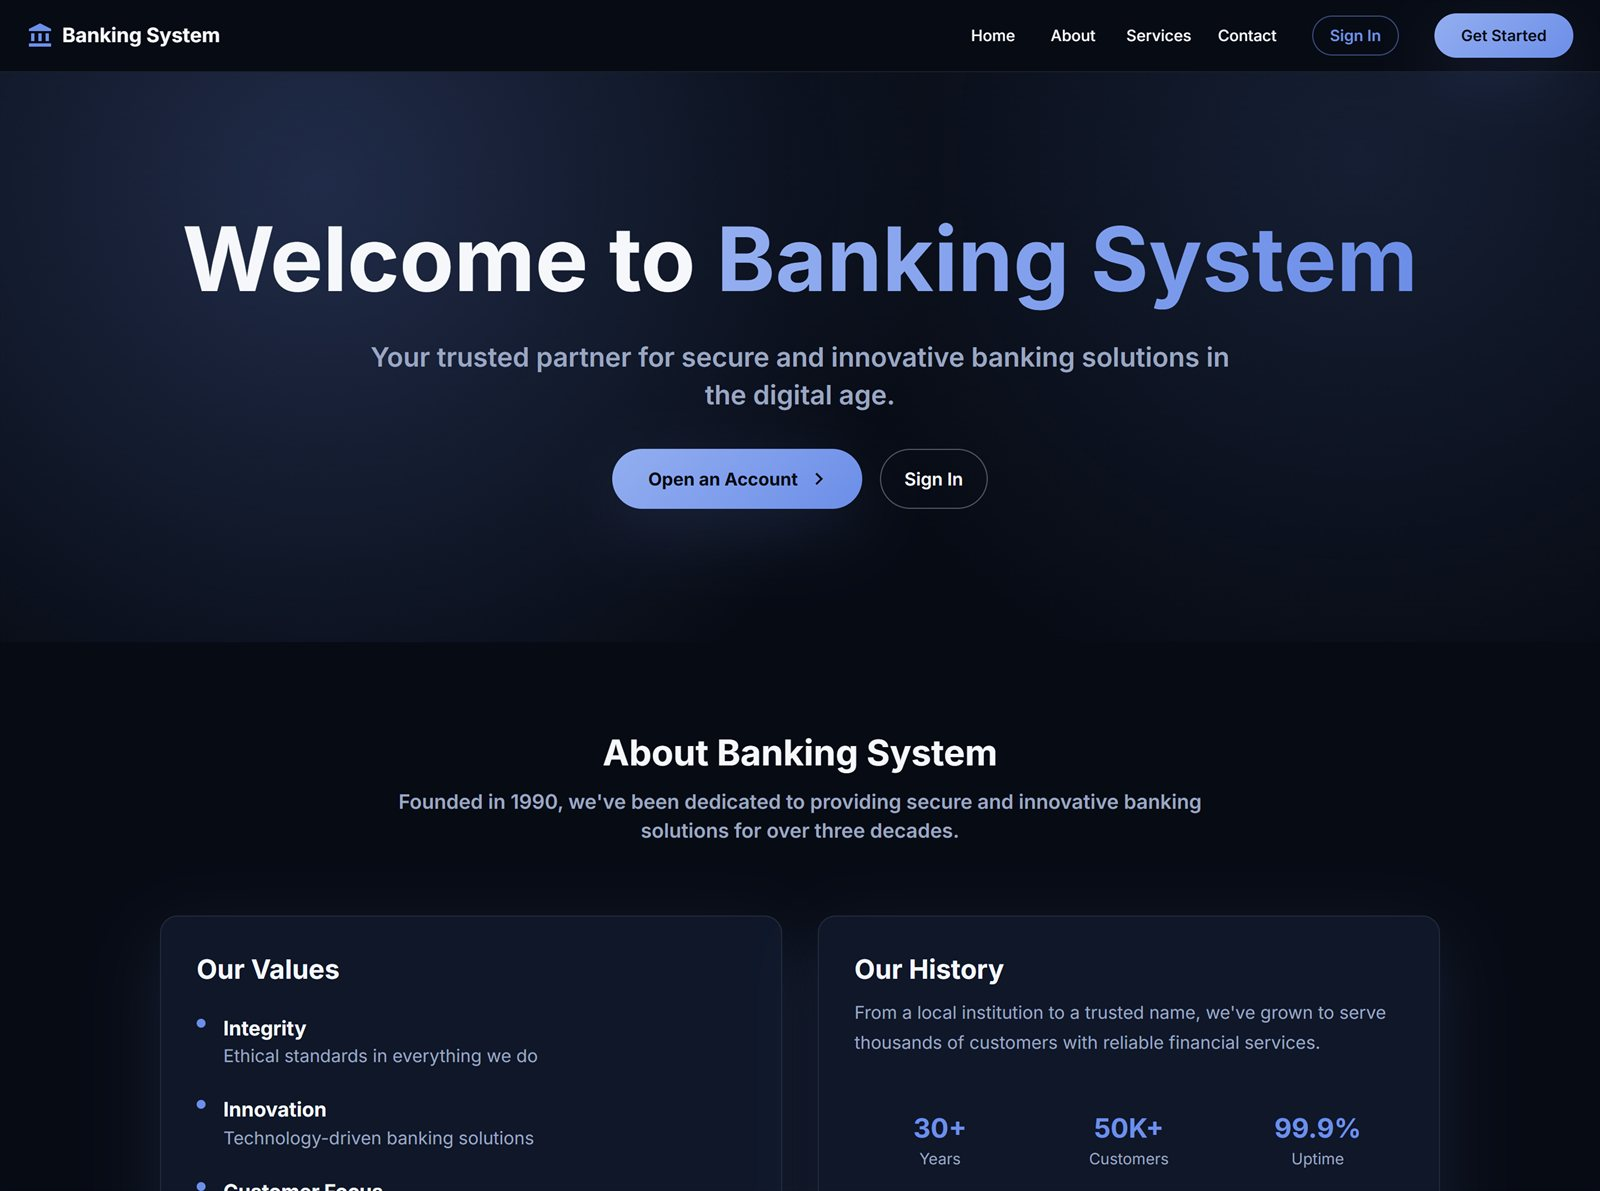
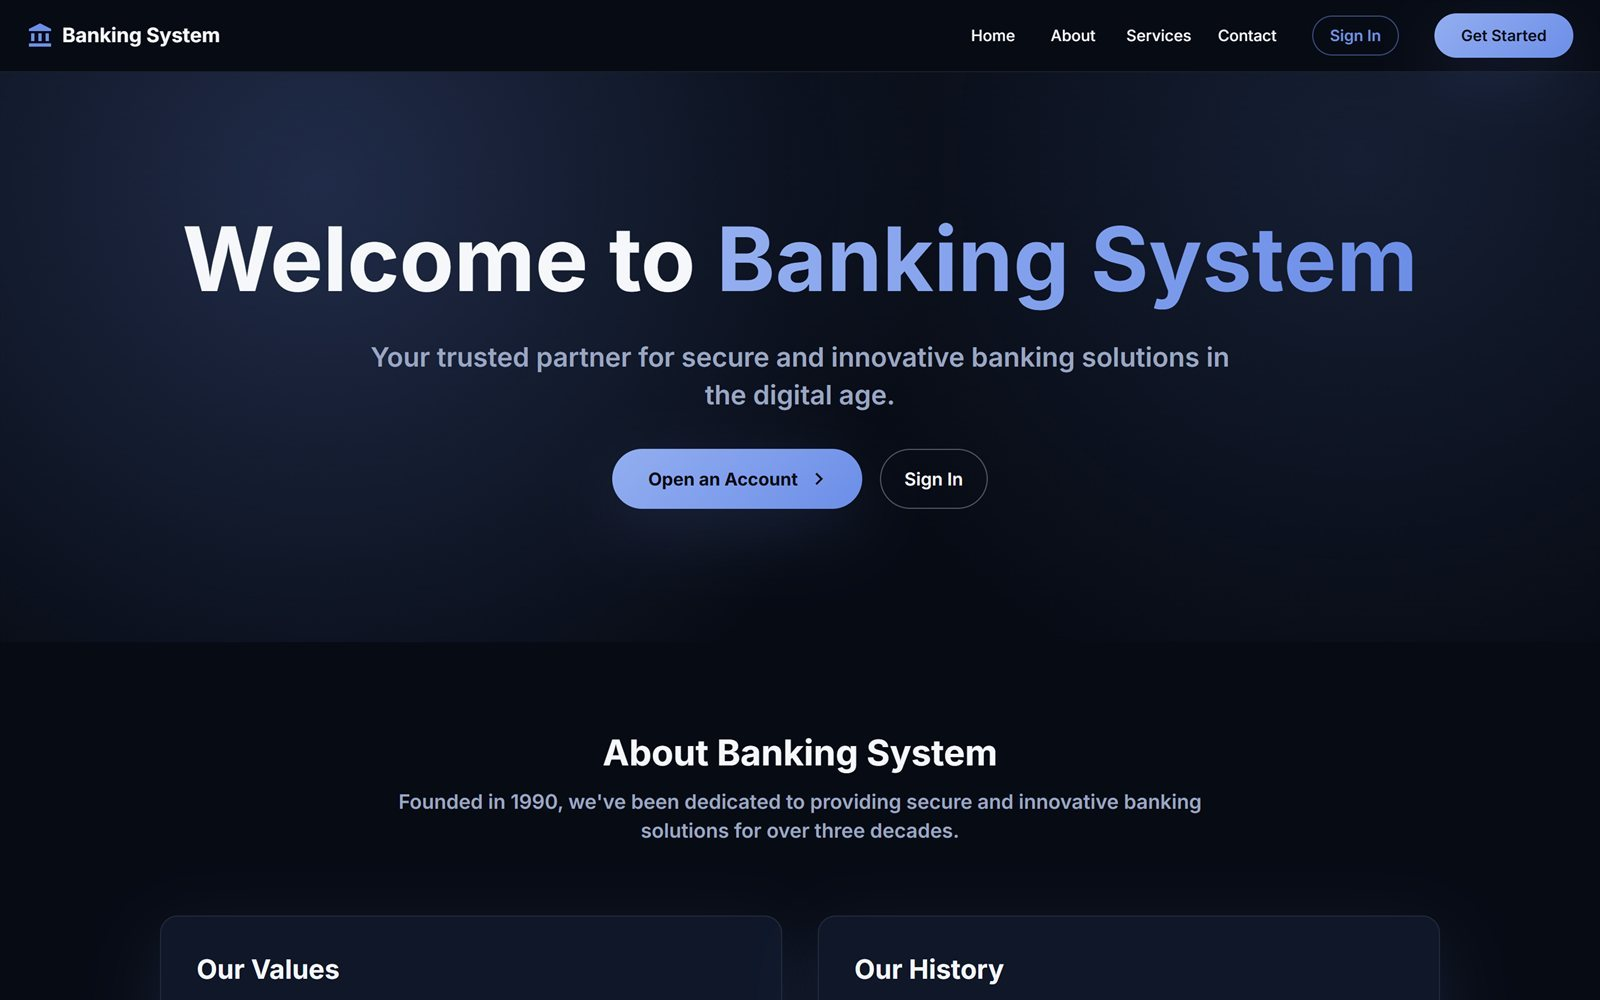
fix(portfolio): highlight Contact in navbar and restyle contact form
The Contact section plus footer was shorter than the viewport, so the page
could never scroll far enough for the scroll spy to activate Contact. The
section now spans at least one viewport with the footer inside it.

Also restyles the contact form as a card, and gives project screenshots a
thinner, uniform frame (Banking System screenshot cropped to match).

diff --git a/src/components/Form/styles.js b/src/components/Form/styles.js
@@ -1,25 +1,39 @@
 import styled from "styled-components";
 import { grayColor, primaryColor } from "../../globalStyles";
 import { Form, Field } from "formik";
+import { motion } from "framer-motion";
 import { Button } from "../../common/Button";
 
-export const Paragraph = styled.p`
-  margin-top: 1rem;
-  line-height: 1.7rem;
-  text-align: center;
-`;
+const errorColor = "#fc8181";
 
 export const FormContact = styled(Form)`
-  width: 500px;
-  display: flex;
-  flex-direction: column;
-  margin: 2rem auto 0;
-  border-radius: 0.25rem;
+  width: 100%;
+  max-width: 560px;
+  margin: 2.5rem auto 0;
   position: relative;
   z-index: 999;
+`;
+
+export const FormCard = styled(motion.div)`
+  display: flex;
+  flex-direction: column;
+  padding: 2rem;
+  border: 1px solid rgba(255, 255, 255, 0.08);
+  border-radius: 8px;
+  background: rgba(255, 255, 255, 0.02);
 
   @media screen and (max-width: 480px) {
-    width: 100%;
+    padding: 1.25rem 1rem;
+  }
+`;
+
+export const InputsWrapper = styled.div`
+  display: flex;
+  gap: 1rem;
+
+  @media screen and (max-width: 480px) {
+    flex-direction: column;
+    gap: 0;
   }
 `;
 
@@ -27,77 +41,64 @@ export const InputWrapper = styled.div`
   width: 100%;
   display: flex;
   flex-direction: column;
+  margin-bottom: 1.25rem;
 `;
 
 export const Label = styled.label`
   color: ${grayColor};
   margin-bottom: 0.5rem;
+  font-size: 0.85rem;
+  font-weight: 600;
+  letter-spacing: 0.5px;
   cursor: pointer;
-  font-size: 0.9rem;
 `;
 
 export const Input = styled(Field)`
-  border-radius: 0.25rem;
+  width: 100%;
   font-size: 1rem;
-  padding: 8px;
-  margin-bottom: 0.5rem;
-  border: 2px solid ${primaryColor};
-  outline: none;
-  color: ${primaryColor};
-  background-color: #cfdbd530;
+  padding: 0.75rem 1rem;
+  color: #fff;
   caret-color: ${primaryColor};
+  background: rgba(255, 255, 255, 0.04);
+  border: 1px solid rgba(255, 255, 255, 0.12);
+  border-radius: 6px;
+  outline: none;
+  transition: border-color 0.2s ease, box-shadow 0.2s ease;
 
   &::placeholder {
-    font-size: 1rem;
     color: ${grayColor};
-    opacity: 0.8;
+    opacity: 0.5;
+  }
+
+  &:focus {
+    border-color: ${primaryColor};
+    box-shadow: 0 0 0 3px rgba(62, 166, 255, 0.15);
   }
 
   &.input-error {
-    border-color: #fc8181;
-    caret-color: #fc8181;
+    border-color: ${errorColor};
+    caret-color: ${errorColor};
   }
 
-  &.input-ok {
-    border-color: #42cc79;
-    color: #42cc79;
-    caret-color: #42cc79;
-    background-color: #cfdbd530;
-    font-weight: 700;
-  }
-`;
-
-export const InputsWrapper = styled.div`
-  display: flex;
-  justify-content: space-between;
-  gap: 0.5rem;
-
-  @media screen and (max-width: 480px) {
-    flex-direction: column;
+  &.input-error:focus {
+    box-shadow: 0 0 0 3px rgba(252, 129, 129, 0.15);
   }
 `;
 
 export const TextArea = styled(Input)`
   resize: none;
-
-  &::placeholder {
-    font-size: 1rem;
-    color: ${grayColor};
-    opacity: 0.8;
-  }
 `;
 
 export const ErrorMsg = styled.div`
   font-size: 0.8rem;
-  font-weight: 700;
-  color: #fc8181;
-  margin-bottom: 0.5rem;
-  border-radius: 0.25rem;
+  font-weight: 600;
+  color: ${errorColor};
+  margin-top: 0.4rem;
 `;
 
 export const ButtonSubmit = styled(Button)`
-  width: 25%;
-  margin-top: 2rem;
+  margin: 0.5rem auto 0;
+  min-width: 200px;
 
   @media screen and (max-width: 480px) {
     width: 100%;

diff --git a/src/components/Form/index.jsx b/src/components/Form/index.jsx
@@ -3,10 +3,10 @@ import { FormValidate } from "../../utils/validateForm";
 import emailjs from "@emailjs/browser";
 import { toast, ToastContainer } from "react-toastify";
 import "react-toastify/dist/ReactToastify.css";
-import { motion } from "framer-motion";
 import { reveal } from "../../utils/animations";
 import {
   ErrorMsg,
+  FormCard,
   FormContact,
   Input,
   InputsWrapper,
@@ -31,12 +31,10 @@ const InnerForm = (props) => {
 
   return (
     <FormContact ref={formRef} onSubmit={handleSubmit}>
-      <motion.div
-        {...reveal()}
-      >
+      <FormCard {...reveal()}>
         <InputsWrapper>
           <InputWrapper>
-            <Label htmlFor="name">Name:</Label>
+            <Label htmlFor="name">Name</Label>
             <Input
               id="name"
               type="text"
@@ -50,7 +48,7 @@ const InnerForm = (props) => {
             {touched.name && errors.name && <ErrorMsg>{errors.name}</ErrorMsg>}
           </InputWrapper>
           <InputWrapper>
-            <Label htmlFor="email">Email:</Label>
+            <Label htmlFor="email">Email</Label>
             <Input
               id="email"
               type="email"
@@ -66,8 +64,8 @@ const InnerForm = (props) => {
             )}
           </InputWrapper>
         </InputsWrapper>
-        <InputWrapper style={{ marginTop: ".5rem" }}>
-          <Label htmlFor="message">Message:</Label>
+        <InputWrapper>
+          <Label htmlFor="message">Message</Label>
           <TextArea
             id="message"
             as="textarea"
@@ -92,9 +90,9 @@ const InnerForm = (props) => {
             !!(errors.message && touched.message)
           }
         >
-          Submit
+          Send message
         </ButtonSubmit>
-      </motion.div>
+      </FormCard>
       <ToastContainer
         position="bottom-center"
         autoClose={5000}

diff --git a/src/pages/Contact/index.jsx b/src/pages/Contact/index.jsx
@@ -1,27 +1,16 @@
-import { EmailLink, Paragraph } from "./styles";
+import { ContactSection, EmailLink, Paragraph } from "./styles";
 import { Container } from "../../globalStyles";
-import { Section } from "../../common/Section";
-import { useInView } from "react-intersection-observer";
 import FormWithRef from "../../components/Form";
 import { TitleSection } from "../../common/TitleSection";
+import { Footer } from "../../components/Footer";
 import { reveal } from "../../utils/animations";
 
 export const Contact = () => {
-  const { ref, inView } = useInView({
-    rootMargin: "-80px",
-  });
-
   return (
-    <Section ref={ref} id="contact">
+    <ContactSection id="contact">
       <Container>
-        <TitleSection
-          {...reveal()}
-        >
-          Contact
-        </TitleSection>
-        <Paragraph
-          {...reveal()}
-        >
+        <TitleSection {...reveal()}>Contact</TitleSection>
+        <Paragraph {...reveal()}>
           Interested in working together or discussing an opportunity? Feel free
           to reach out.
           <br />
@@ -33,6 +22,7 @@ export const Contact = () => {
         </Paragraph>
         <FormWithRef />
       </Container>
-    </Section>
+      <Footer />
+    </ContactSection>
   );
 };

diff --git a/src/components/Project/styles.js b/src/components/Project/styles.js
@@ -21,28 +21,21 @@ export const ProjectContainer = styled(motion.div)`
 
 export const ProjectImage = styled(motion.div)`
   width: 73.33%;
-  height: 40vw;
-  max-height: 576px;
+  padding: 18px;
   background-color: ${darkAlphaColor};
-  display: flex;
-  align-items: center;
-  justify-content: center;
+  border-radius: 6px;
   z-index: 5;
 
   img {
-    width: 85%;
-    height: 80%;
-    object-fit: contain;
-    transition: transform 0.3s ease;
-  }
-
-  @media screen and (max-width: 768px) {
-    height: 42vw;
+    display: block;
+    width: 100%;
+    height: auto;
+    border-radius: 4px;
   }
 
   @media screen and (max-width: 480px) {
     width: 100%;
-    height: 60vw;
+    padding: 10px;
   }
 `;
 

diff --git a/src/App.jsx b/src/App.jsx
@@ -5,7 +5,6 @@ import { Home } from "./pages/Home";
 import { About } from "./pages/About";
 import { Projects } from "./pages/Projects";
 import { Contact } from "./pages/Contact";
-import { Footer } from "./components/Footer";
 import Navbar from "./components/Navbar";
 import { CanvasContainer, MainBg } from "./pages/Home/styles";
 import { useInView } from "react-intersection-observer";
@@ -33,7 +32,6 @@ function App() {
       <Projects />
       <About />
       <Contact />
-      <Footer />
     </>
   );
 }

diff --git a/src/pages/Contact/styles.js b/src/pages/Contact/styles.js
@@ -1,6 +1,17 @@
 import styled from "styled-components";
 import { motion } from "framer-motion";
 import { primaryColor } from "../../globalStyles";
+import { Section } from "../../common/Section";
+
+export const ContactSection = styled(Section)`
+  min-height: calc(100vh - 72px);
+  display: flex;
+  flex-direction: column;
+
+  & > footer {
+    margin-top: auto;
+  }
+`;
 
 export const EmailLink = styled.a`
   color: ${primaryColor};
